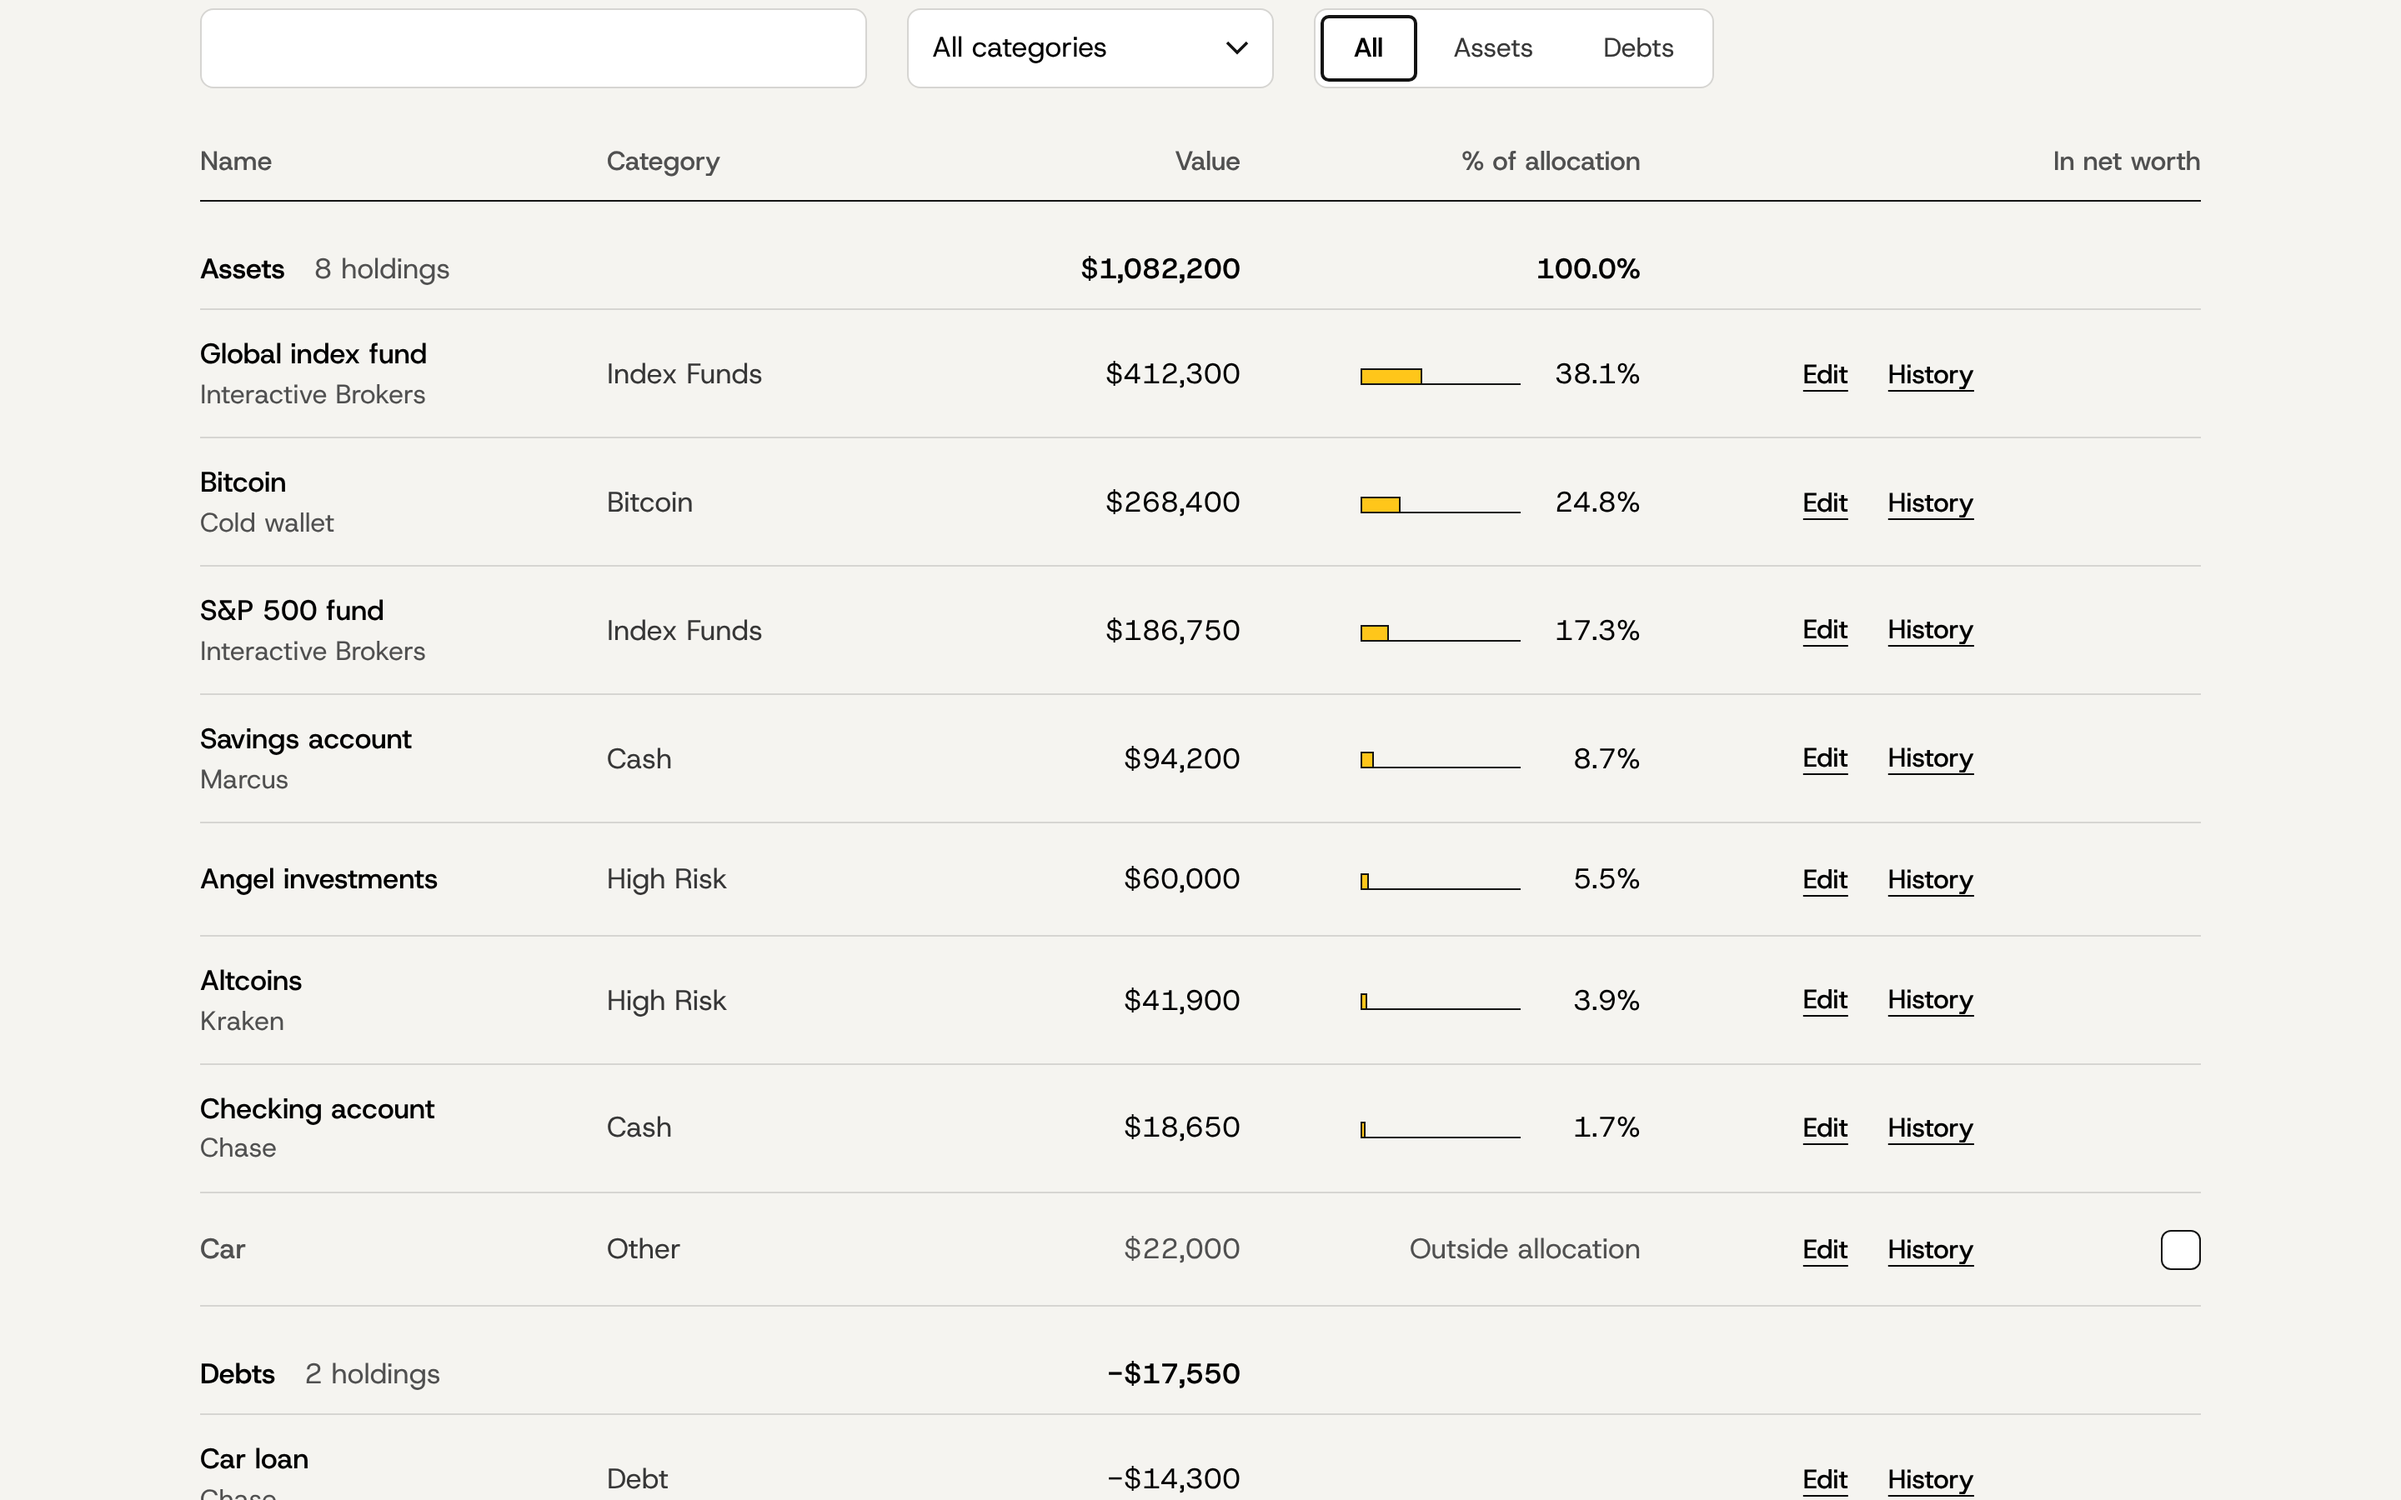
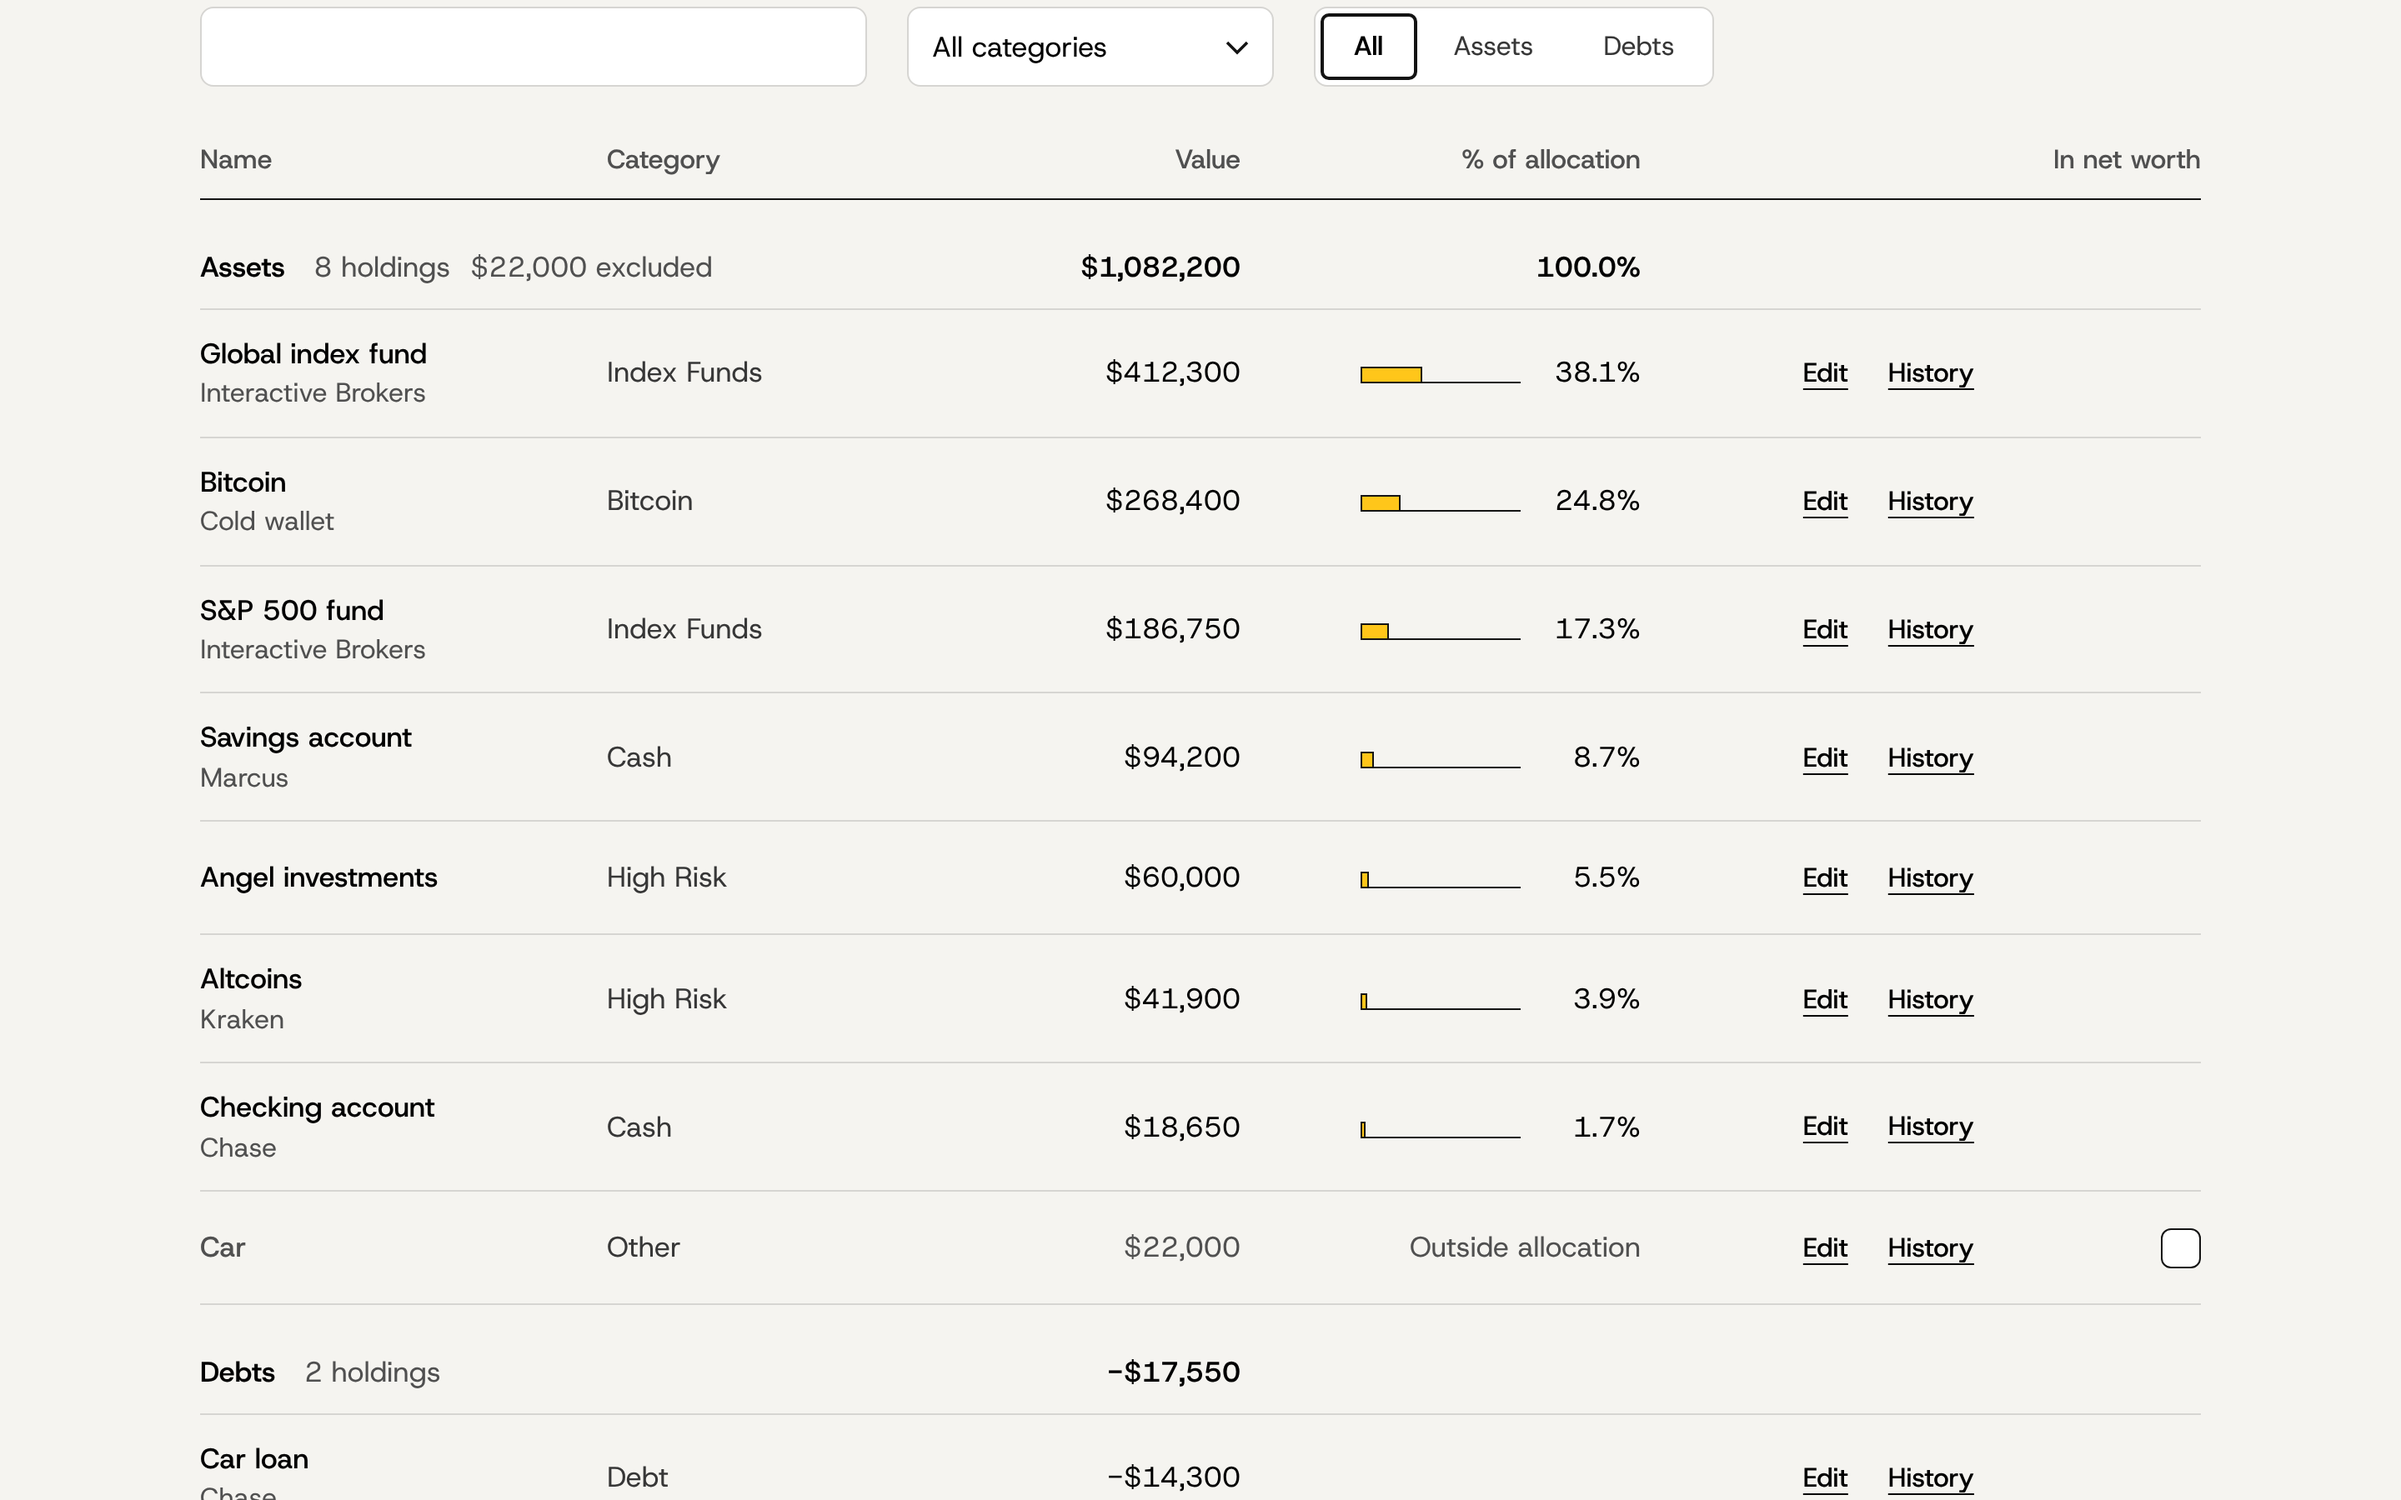
Drop the excluded-categories text from the net worth summary
The heading is always "Net worth". When categories are left out, the
Assets row in the holdings table notes the excluded amount instead, and
the snapshot comparison line is hidden because it uses full figures.

Claude-Session: https://claude.ai/code/session_01MGnHEpiTRV9QRoaRJHrsMb

diff --git a/src/pages/Dashboard.tsx b/src/pages/Dashboard.tsx
@@ -36,7 +36,6 @@ function useHiddenCategories(): [Set<string>, (id: string, hide: boolean) => voi
   return [hidden, toggle];
 }
 
-const listNames = (names: string[]) => (names.length > 1 ? `${names.slice(0, -1).join(', ')} and ${names[names.length - 1]}` : names[0] ?? '');
 
 export function ExampleNote() {
   const { data, dispatch, notify } = useStore();
@@ -80,7 +79,6 @@ export function Dashboard({ onSnapshot }: { onSnapshot: () => void }) {
   const hiddenIds = new Set(hiddenCats.map((c) => c.id));
   const leftOut = sum(data.holdings.filter((h) => h.kind === 'asset' && h.categoryId !== null && hiddenIds.has(h.categoryId)).map((h) => h.value));
   const excluding = hiddenCats.length > 0;
-  const namesText = listNames(hiddenCats.map((c) => c.name));
   // Debts always count in full: they are not tied to any category.
   const t = excluding
     ? { totalAssets: round2(full.totalAssets - leftOut), totalDebts: full.totalDebts, netWorth: round2(full.netWorth - leftOut) }
@@ -98,19 +96,20 @@ export function Dashboard({ onSnapshot }: { onSnapshot: () => void }) {
     <>
       <ExampleNote />
       <section className="summary" aria-labelledby="nw-label">
-        <h1 id="nw-label" className="eyebrow">{excluding ? `Net worth without ${namesText}` : 'Net worth'}</h1>
+        <h1 id="nw-label" className="eyebrow">Net worth</h1>
         <p className="net-worth">{fmt.money(t.netWorth)}</p>
         <dl className="totals">
           <div><dt>Total assets</dt><dd>{fmt.money(t.totalAssets)}</dd></div>
           <div><dt>Total debts</dt><dd>{fmt.money(t.totalDebts)}</dd></div>
         </dl>
-        <p className="since">
-          {excluding
-            ? `Leaves out ${fmt.money(leftOut)} in ${namesText}. Debts are counted in full.`
-            : last
-            ? `${fmt.signedMoney(change)}${changePct === null ? '' : ` (${change < 0 ? '−' : '+'}${Math.abs(changePct).toFixed(1)}%)`} since the snapshot of ${fmtDate(last.takenAt)}`
-            : 'No snapshots saved yet. Take one to mark this moment.'}
-        </p>
+        {/* The snapshot comparison uses full figures, so it is hidden while a category is excluded. */}
+        {!excluding && (
+          <p className="since">
+            {last
+              ? `${fmt.signedMoney(change)}${changePct === null ? '' : ` (${change < 0 ? '−' : '+'}${Math.abs(changePct).toFixed(1)}%)`} since the snapshot of ${fmtDate(last.takenAt)}`
+              : 'No snapshots saved yet. Take one to mark this moment.'}
+          </p>
+        )}
         <button className="btn btn-primary summary-snapshot" type="button" onClick={onSnapshot}>Take snapshot</button>
       </section>
 

diff --git a/src/components/HoldingsSection.tsx b/src/components/HoldingsSection.tsx
@@ -53,6 +53,7 @@ export function HoldingsSection({ hiddenCategoryIds, onToggleCategory }: Props) 
   // Holdings outside the allocation carry an "in net worth" checkbox for their category.
   const showInclude = anyExcluded && Boolean(onToggleCategory);
   const leftOut = (h: Holding) => h.kind === 'asset' && h.categoryId !== null && Boolean(hiddenCategoryIds?.has(h.categoryId));
+  const excludedTotal = sum(allAssets.filter(leftOut).map((h) => h.value));
   const includeCell = (h: Holding) =>
     showInclude ? (
       <td className="c-include">
@@ -156,7 +157,10 @@ export function HoldingsSection({ hiddenCategoryIds, onToggleCategory }: Props) 
               <tbody>
                 {assets.length > 0 && (
                   <tr className="group">
-                    <th scope="rowgroup" colSpan={2}>Assets <span className="count">{countText(assets.length, allAssets.length)}</span></th>
+                    <th scope="rowgroup" colSpan={2}>
+                      Assets <span className="count">{countText(assets.length, allAssets.length)}</span>
+                      {excludedTotal > 0 && <span className="count">{fmt.money(excludedTotal)} excluded</span>}
+                    </th>
                     <td className="num">{fmt.money(sum(assets.filter((h) => !leftOut(h)).map((h) => h.value)))}</td>
                     <td className="num">{pct(share(sum(assets.filter(counts).map((h) => h.value)), base) ?? 0)}</td>
                     <td />
